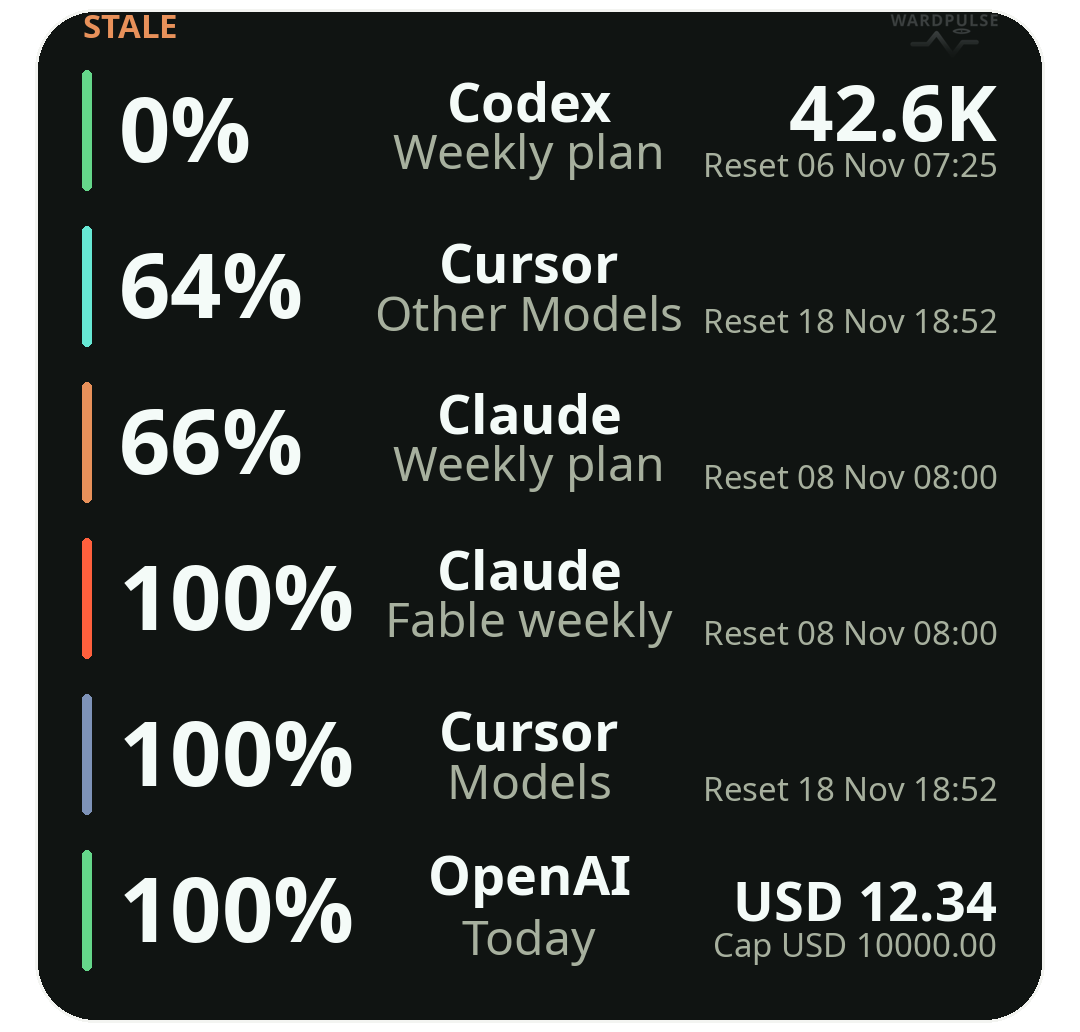
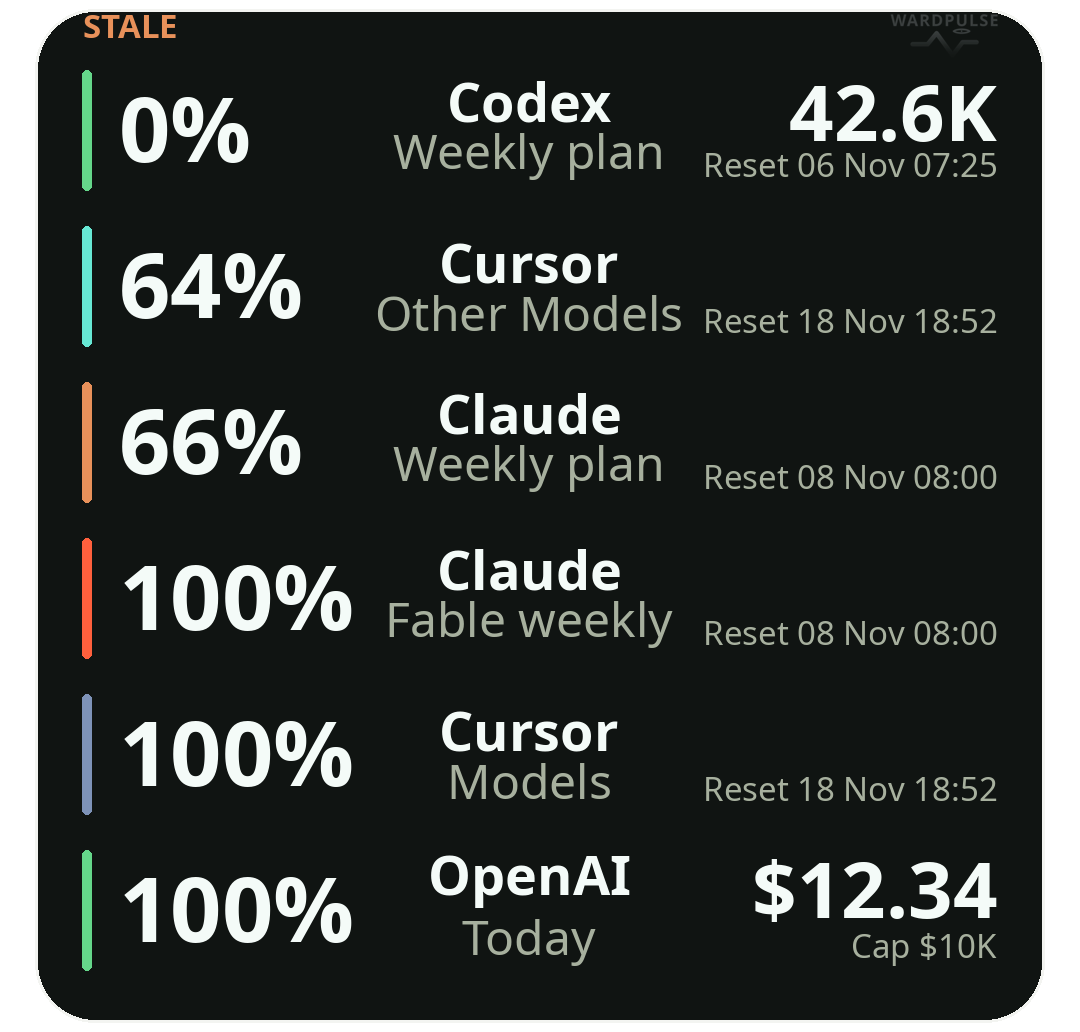
fix(widget): match budget spent to purchased balance typography

Changed region(s): [[0.6417, 0.8372, 0.9472, 0.9302]]

diff --git a/tools/test-phone-widget/PhoneWidgetTest.java b/tools/test-phone-widget/PhoneWidgetTest.java
@@ -247,8 +247,20 @@ public final class PhoneWidgetTest {
                                 .equals("OpenAI platform · Today, -USD 1" + "0".repeat(60)
                                         + ".00 spent, No cap"),
                 "The sign counts toward the accepted 64-character cache limit without truncation.");
-        PhoneWidgetLayout.Row capped = budget("50% left", "1234", "10000", "USD");
-        PhoneWidgetLayout.VisibleRow full = fitRow(capped, 500).rows.get(0);
+        PhoneWidgetLayout.Row capped = PhoneWidgetLayout.Row.fromCache("OpenAI platform · Today",
+                "OpenAI", "Today", "50% left", "", "2028-02-10T09:15:00Z", ZoneId.of("UTC"),
+                0xff65d78a, "budget", "1234", "USD", "10000", "USD",
+                "12.50", "Credits", "50", "Credits");
+        PhoneWidgetLayout.Plan cappedPlan = fitRow(capped, 500);
+        PhoneWidgetLayout.VisibleRow full = cappedPlan.rows.get(0);
+        PhoneWidgetLayout.TextRun purchasedBalance = fit(360, 344, false).text.stream()
+                .filter(run -> run.text.equals("42K")).findFirst().orElseThrow();
+        check(purchasedBalance.style == PhoneWidgetLayout.Style.CREDIT
+                        && cappedPlan.text.stream().anyMatch(run -> run.text.equals(capped.spent)
+                                && run.style == purchasedBalance.style)
+                        && cappedPlan.text.stream().anyMatch(run -> run.text.equals(capped.lower)
+                                && run.style == PhoneWidgetLayout.Style.RESET),
+                "Budget spent shares purchased 26 Bold and cap stays 11 despite incidental Quantity fields.");
         check(capped.spent.equals("$12.34") && capped.lower.equals("Cap $100.00")
                         && full.primary.equals("50%"),
                 "Visible symbols do not alter the independently reported percentage.");
@@ -267,10 +279,10 @@ public final class PhoneWidgetTest {
                                 "EUR expense, 37.5% remaining, EUR 1234.50 spent, Cap EUR 2000.50"),
                 "EUR spent/cap compact visibly while reported percentage and exact speech survive.");
         check(euroPlan.text.stream().anyMatch(run -> run.text.equals("€1.2K")
-                        && run.glyphs.supported)
+                        && run.style == purchasedBalance.style && run.glyphs.supported)
                         && euroPlan.text.stream().anyMatch(run -> run.text.equals("Cap €2K")
-                                && run.glyphs.supported),
-                "An actual EUR row reaches measured runs through the production glyph guard.");
+                                && run.style == PhoneWidgetLayout.Style.RESET && run.glyphs.supported),
+                "An actual EUR row retains shared spent typography, cap style and the production glyph guard.");
         checkBounds(euroPlan);
         PhoneWidgetLayout.VisibleRow euroNarrow = fitRow(euro, 150).rows.get(0);
         check(euroNarrow.primary.equals("€1.2K") && !euroNarrow.credits && !euroNarrow.lower

diff --git a/apps/phone_flutter/android/app/src/main/java/app/wardpulse/PhoneWidgetLayout.java b/apps/phone_flutter/android/app/src/main/java/app/wardpulse/PhoneWidgetLayout.java
@@ -94,7 +94,7 @@ public final class PhoneWidgetLayout {
             String used = quantityText(usedValue, usedUnit);
             String extraCap = quantityText(capValue, capUnit);
             boolean extra = !used.isEmpty() || !extraCap.isEmpty();
-            detailStyle = budget || extra ? Style.FAMILY : Style.CREDIT;
+            detailStyle = !budget && extra ? Style.FAMILY : Style.CREDIT;
             if (budget) {
                 detail = this.percent.isEmpty() ? "" : spent;
                 detailDescription = detail.isEmpty() ? "" : spentDescription + " spent";

diff --git a/docs/product/PHONE_WIDGET_DESIGN.md b/docs/product/PHONE_WIDGET_DESIGN.md
@@ -30,10 +30,19 @@ The mark stays anchored to the card with nominal 36×15 ink, top 2 and end margi
 | Money fallback only after released-width 30 cannot fit | 26 Bold 700 |
 | Purchased remaining balance | 26 Bold 700 |
 | Family / full pool | 18 Bold 700 / 16 Regular 400 |
-| Budget spent / cap | 18 Bold 700 / 11 Regular 400 |
+| Budget spent / cap | 26 Bold 700 / 11 Regular 400 |
 | Extra used/cap Quantity line / optional reset | 18 Bold 700 / 11 Regular 400 |
 | STALE / complete empty or no-fit copy | 11 Bold / 12 Regular |
 | Row / row gap / side and bottom padding | 44 / 8 / 16 |
+
+**Budget detail typography — 2026-11-04 revision.** Native budget spent details and current
+default review/picker exports share the purchased-balance 26 Bold 700 style. Budget
+classification takes precedence over incidental Quantity fields. Cap stays 11 Regular 400;
+Extra used/cap stays 18 Bold 700 with its optional reset at 11 Regular 400. Default art shows
+`$12.34` / `Cap $10K` for the unchanged USD illustration, retaining full ISO amounts in
+preview accessibility. The historical Nov1/Nov3 boards and both optional preview routes
+remain unchanged, including the responsive route's budget-18 typography. Their dated
+approval does not establish native acceptance of this correction.
 
 Nominal full-grid allowances are accent 12, primary 84, label 108 and details 112 with two
 6-unit gaps. They are not native refusal thresholds. Measure complete actual glyph ink,
